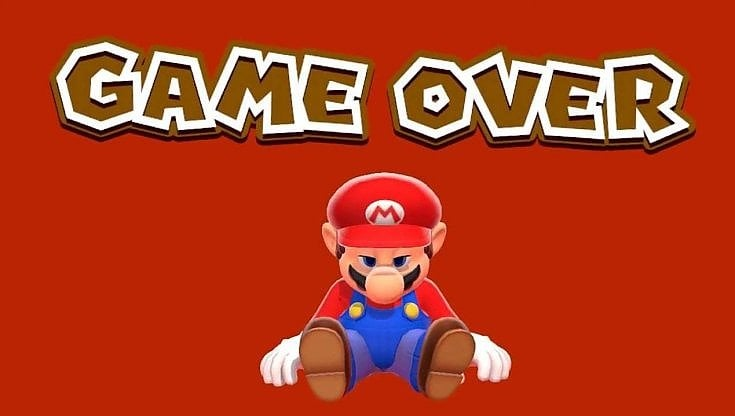
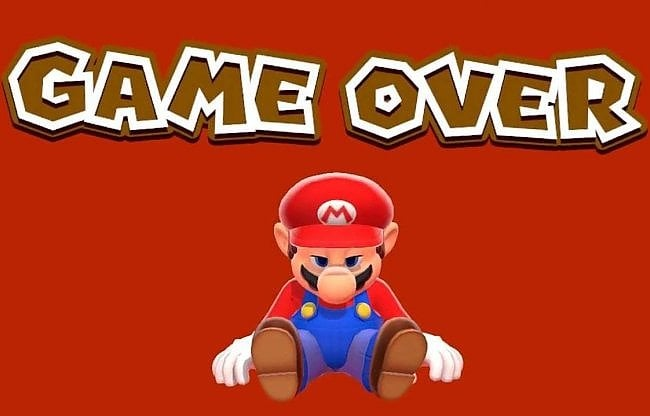
bankrupt screen css

Changed region(s): [[0.0, 0.0625, 1.0, 0.375], [0.3077, 0.4062, 0.7385, 0.9688], [0.5538, 0.9062, 0.5846, 0.9375]]

diff --git a/src/assets/css/bankruptscreen.css b/src/assets/css/bankruptscreen.css
@@ -1,0 +1,40 @@
+@font-face {
+    font-family: "nintendo";
+    src: url("../fonts/Pretendo.ttf");
+}
+
+body {
+    font-family: "nintendo", sans-serif;
+    color: black;
+    background-color: rgba(186, 36, 3, 1);
+    font-size: 1rem;
+}
+
+h1 {
+    text-align: center;
+    font-size: 5rem;
+    margin-top: 1rem;
+    color: white;
+}
+
+button {
+    font-size: 1.5rem;
+    padding: 1rem 1rem;
+    margin-right: 10rem;
+    margin-left: 10rem;
+    border-radius: 0.5rem;
+    font-family: "nintendo", sans-serif;
+}
+
+img {
+    display: block;
+    margin-left: auto;
+    margin-right: auto;
+    width: 50%;
+}
+
+div{
+    text-align: center;
+    padding-top: 1.5rem;
+    padding-bottom: 1.6rem;
+}

diff --git a/src/pages/bankrupt-screen.html b/src/pages/bankrupt-screen.html
@@ -12,7 +12,7 @@
 <main>
     <h1>You're bankrupt!</h1>
 
-    <img src="../images/bankrupt/Mario-bankrupt.jpg" alt="you lose" title="you lose"/>
+    <img src="../images/bankrupt/Mario-bankrupt.jpg" alt="bankrupt" title="bankrupt"/>
 
     <div>
         <button type="button">Statistics</button>
